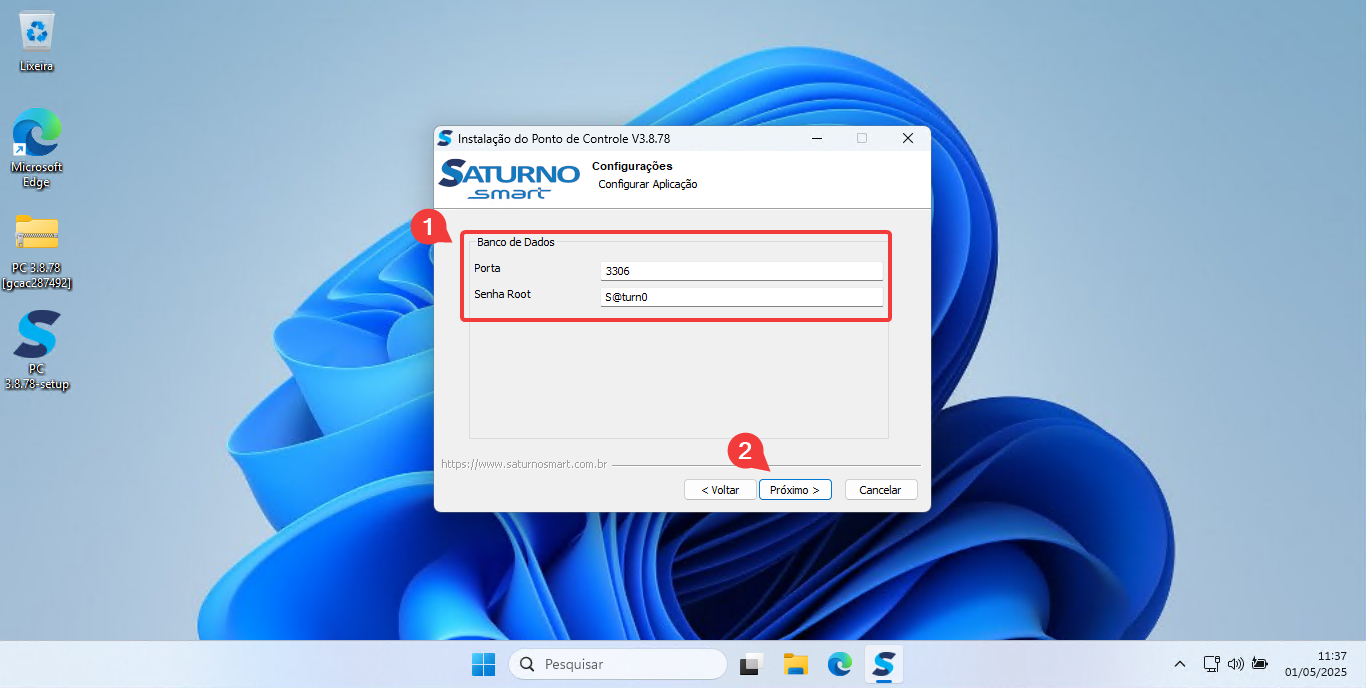
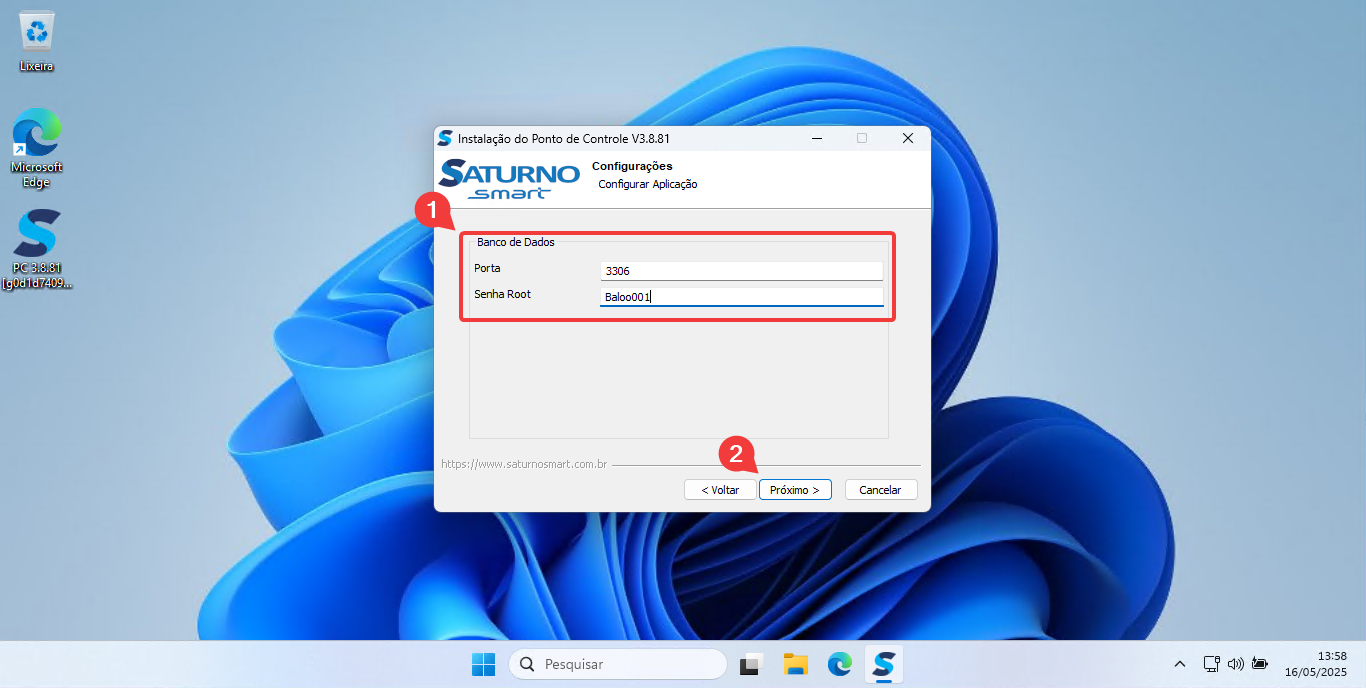
Manual instalação SLC e Geral finalizados

diff --git a/manualInstalaçãoGeral.md b/manualInstalaçãoGeral.md
@@ -1,6 +1,6 @@
 # 🛠 Manual de Instalação
 
-> Versão 2.0 | Atualizado em: 05/05/2025
+> Versão 2.0 | Atualizado em: 16/05/2025
 
 ---
 
@@ -18,7 +18,10 @@
 
 - [2.1 Instalação via Setup](#21-ivs)
 - [2.3 Instalação via terminal](#22-ivt)
-- [2.3 Setup Wizard](#23-sw)
+
+### ⚙ [CAPÍTULO 3: CONFIGURAÇÕES EXTRAS](#cap3)
+
+- [3.1 Configuração Setup Wizard](#31-sw)
 
 ---
 
@@ -66,15 +69,13 @@ Bancos de Dados Homologados:
 
 ## 📌 1.2 Arquivos Necessários {#12-an}
 
-Os arquivos necessários para a instalação do software estarão disponíveis no seguinte caminho:
+Os arquivos necessários para a instalação do software estão disponíveis no seguinte caminho:
 
-- **Servidor:** `\\192.168.100.100\p_d\21-SOFTWARE\10 - QA\PontoDeControle`
+- **SharePoint:** `https://ibstecn.sharepoint.com/sites/software/Downloads/Forms/AllItems.aspx`
 
-Essa pasta contém:
-
-- Os arquivos de instalação do SSV4
-- O instalador do Ponto de Controle
-- O pacote do Ponto de Controle compactado
+    - **Ponto de Controle:** `Downloads/01. Saturno Smart V5 [Ponto de Controle]`
+    - **Saturno Loge:** `Downloads/03. Loge Dashboard`
+    - **MySql:** `Ferramentas/mysql-installer-community-8.0.40.0.msi`
 
 ---
 
@@ -82,64 +83,213 @@ Essa pasta contém:
 
 ## 📌 2.1 Instalação via Setup {#21-ivs}
 
-Para realizar a instalação do Ponto de Controle via instalador, execute o arquivo .exe que se encontra na pasta referenciada no [tópico 1.2](#12-an).
+Para realizar a instalação do Ponto de Controle por meio do instalador, execute o arquivo `.exe` localizado na pasta referenciada no [tópico 1.2](#12-an).
 ![img](./imagens/imgInstGer/intSetup.png)
 
-Clique em "Próximo" na janela que for exibida.
+Na janela exibida, clique em "Próximo".
 ![img](./imagens/imgInstGer/bem_vindo.png)
 
-Leia termos e condições, clique em "Eu Concordo".
+Leia os termos e condições, e clique em "Eu Concordo" para prosseguir.
 ![img](./imagens/imgInstGer/eu_concordo.png)
 
-Defina o local de instalação do software e clique em "Próximo". Se desejar alterar o local, clique em "Procurar" e selecione o novo diretório.
+Em seguida, defina o local de instalação do software e clique em "Próximo". Caso deseje alterar o diretório padrão, clique em "Procurar" e selecione o novo local.
 ![img](./imagens/imgInstGer/caminho.png)
 
-Nesta tela, você pode escolher se deseja criar um atalho na área de trabalho e se deseja que o instalador também instale o MySQL. Marque as opções desejadas e clique em "Próximo".
+Nesta etapa, você pode escolher se deseja:
+
+- Criar um atalho na área de trabalho.
+- Instalar o MySQL junto com o software.
+
+Marque as opções desejadas e clique em "Próximo".
 ![img](./imagens/imgInstGer/mysql_icondesktop.png)
 
-Caso tenha selecionado a instalação do MySQL, defina a porta e a senha do banco de dados, e clique em "Próximo".
+Se tiver selecionado a instalação do MySQL, será necessário definir a porta e a senha do banco de dados. Após preencher os campos, clique em "Próximo".
 ![img](./imagens/imgInstGer/def_banco.png)
 
-Nesta etapa, defina a porta de acesso ao software e o nome do serviço que será criado ao final da instalação. Clique em "Instalar".
+Agora, configure a porta de acesso ao software e o nome do serviço que será criado ao final da instalação. Clique em "Instalar" para iniciar o processo.
 ![img](./imagens/imgInstGer/servidor.png)
 
-Deixe a opção "Iniciar automaticamente com o sistema" marcada para que o serviço seja instalado e, por fim, clique em "Concluir". Depois, siga os passos descritos no [tópico 2.3](#23-sw).
+Mantenha a opção "Iniciar automaticamente com o sistema" marcada para que o serviço seja iniciado junto com o Windows. Por fim, clique em "Concluir".
+Após finalizar a instalação, siga os passos descritos no [tópico 3.1](#31-sw).
 ![img](./imagens/imgInstGer/servico.png)
 
 ## 📌 2.2 Instalação via terminal {#22-ivt}
 
-Para instalar o Ponto de Controle via terminal, descompacte o arquivo .zip disponível na pasta indicada no [tópico 1.2](#12-an).
-**OBS.:** Antes de prosseguir com a instalação, certifique-se de já ter instalado o MySQL.
-![img](./imagens/imgInstGer/intZip.png)
+**OBS.:** Antes de prosseguir com a instalação via terminal, certifique-se de que o MySQL já esteja instalado (Caso ainda não tenha feito isso, siga os passos descritos no [tópico 2.3](#23-im)).
 
-Após descompactar, execute o arquivo `smart-control-point`.
+Faça o download do arquivo `.zip` localizado na pasta mencionada no [tópico 1.2](#12-an). Em seguida:
+
+1. Descompacte o arquivo.
+2. Crie uma pasta no diretório `C:\` com o nome **"SMART"**.
+3. Mova o conteúdo extraído para essa nova pasta.
+
+![img](./imagens/imgInstSlc/pdc_1.png)
+
+Dentro da pasta `PCV3`, execute o arquivo `smart-control-point`.
 ![img](./imagens/imgInstGer/smart_control_point.png)
 
-O servidor será iniciado. Em seguida, abra uma página no navegador e acesse o endereço 127.0.0.1:4000. Depois, siga os passos descritos no [tópico 2.3](#23-sw).
+O servidor será iniciado. Em seguida, abra uma página no navegador e acesse o endereço `127.0.0.1:4000`. Depois, siga os passos descritos no [tópico 3.1](#31-sw).
 ![img](./imagens/imgInstGer/terminal_up.png)
 
-## 📌 2.3 Setup Wizard {#23-sw}
+## 📌 2.3 Instalação MySql {#23-im}
 
-Após a instalação, será aberta uma guia no navegador com o Setup Wizard.
+Faça o download do arquivo `mysql-installer-community-8.0.40.0.msi`, mencionado no [tópicpo 1.2](#12-an). Execute o arquivo `.msi`.
+![img](./imagens/imgInstSlc/mysql_1.png)
 
-Na primeira seção, defina:
+No menu "Choosing a Setup Type", selecione a opção "Custom" e clique em "Next".
+![img](./imagens/imgInstSlc/mysql_2.png)
+
+No menu "Select Products", expanda as opções de "MySQL Server" e "Applications", transfira os pacotes MySQL Server 8.0.42 e MySQL Workbench 8.0.42, e clique em "Next".
+![img](./imagens/imgInstSlc/mysql_3.png)
+
+No menu "Check Requirements", clique em "Execute", instale todos os pacotes do Visual C++ exigidos e, ao final, clique em "Next".
+![img](./imagens/imgInstSlc/mysql_4.png)
+
+No menu "Installation", clique em "Execute" e, após a finalização, clique em "Next".
+![img](./imagens/imgInstSlc/mysql_5.png)
+
+No menu "Product Configuration", clique em "Next".
+![img](./imagens/imgInstSlc/mysql_6.png)
+
+No menu "Type and Networking", altere o campo "Config Type" para "Server Computer" e clique em "Next".
+![img](./imagens/imgInstSlc/mysql_7.png)
+
+No menu "Authentication Method", defina o método de autenticação que será utilizado:
+
+| Método de Autenticação | Nome Técnico | Segurança | Compatibilidade | Observações |
+|------------------------|------------------------|------------------|---------------------------|------------------------------------------------------------------------------|
+| Legacy Authentication Method | `mysql_native_password`| Baixa a moderada | SSV4 (clientes antigos)   | Compatível com clientes mais antigos (MySQL < 8.0). O Ponto de Controle também aceita esse método. |
+| Strong Password Encryption for Authentication | `caching_sha2_password`| Alta | Ponto de Controle | Padrão a partir do MySQL 8.0. Mais seguro, evita tráfego de senha em texto claro. |
+
+![img](./imagens/imgInstSlc/mysql_8.png)
+
+No menu "Accounts and Roles", defina a senha do usuário root. Por padrão, a Saturno utiliza a senha `Baloo001`.
+Adicione dois usuários chamados **smart** — um com escopo **global** e outro com escopo **local**. Para isso, clique em "Add User"..
+![img](./imagens/imgInstSlc/mysql_9.png)
+
+Após clicar em "Add User", será exibido um formulário. Preencha da seguinte forma:
+
+- User Name: `smart`
+- Host: `%` (para usuário global) ou `localhost` (para usuário local)
+- Password: utilize a mesma senha do root (`Baloo001`)
+Clique em "OK".
+![img](./imagens/imgInstSlc/mysql_10.png)
+
+Após adicionar os dois usuários extras, clique em "Next".
+![img](./imagens/imgInstSlc/mysql_11.png)
+
+No menu "Windows Service", clique em "Next".
+![img](./imagens/imgInstSlc/mysql_12.png)
+
+No menu "Server File Permissions", clique em "Next".
+![img](./imagens/imgInstSlc/mysql_13.png)
+
+No menu "Apply Configuration", clique em "Execute" e, ao concluir, clique em "Finish".
+![img](./imagens/imgInstSlc/mysql_14.png)
+
+## 📌 2.4 Instalação Loge {#24-il}
+
+Faça o download do arquivo `saturno-loge-2.0.5-setup.exe`, mencionado no [tópicpo 1.2](#12-an), e execute o arquivo `.exe`.
+![img](./imagens/imgInstSlc/log_1.png)
+
+Clique em "Próximo".
+![img](./imagens/imgInstSlc/log_2.png)
+
+Clique em "Eu Concordo" para aceitar os termos de licença.
+![img](./imagens/imgInstSlc/log_3.png)
+
+Na etapa de escolha do diretório de instalação:
+
+- Se você optou pela instalação via terminal, selecione a pasta **SMART**, criada no [tópico 2.2](#22-ivt).
+- Se você optou pela instalação via setup, selecione a pasta **Saturno**, criada no [tópico 2.1](#21-ivs).
+
+Para isso, clique em "Procurar...", navegue até a pasta desejada e, em seguida, clique em "Próximo".
+![img](./imagens/imgInstSlc/log_4.png)
+
+No menu de configurações de conexão, preencha os campos da seguinte forma:
+
+- **Empresa:** mantenha "Saturno Smart" (valor padrão), ou altere conforme necessidade do cliente.
+- **URL DB Ponto de Controle:**
+
+    Altere os parâmetros da URL conforme abaixo:
+
+    - `username`: `root`
+    - `password`: `Baloo001`
+    - `db_name`: `pc_v3`
+    (Caso tenha utilizado credenciais ou nome de banco diferentes, substitua pelos corretos.)
+- **URL Ponto de Controle:** `http://localhost:4000`
+- **Porta:** por padrão, a porta é 5000. No entanto, alguns clientes utilizam essa porta para o integrador. Nesses casos, altere para 5001:
+    - Se o integrador estiver utilizando a porta 5000, defina 5001 aqui.
+    - Se o integrador estiver em 5001, mantenha 5000 para o Loge.
+
+    Após preencher todos os campos, clique em "Instalar".
+
+![img](./imagens/imgInstSlc/log_5.png)
+
+Ao final da instalação, mantenha o checkbox selecionado para que o Loge seja instalado como **serviço do Windows** e clique em "Concluir".
+![img](./imagens/imgInstSlc/log_6.png)
+
+---
+
+# ⚙ CAPÍTULO 3: CONFIGURAÇÕES EXTRAS {#cap3}
+
+## 📌 3.1 Configuração Setup Wizard {#31-sw}
+
+Após a instalação, será aberta automaticamente uma guia no navegador com o Setup Wizard (Caso a guia não seja aberta, abra o navegador e acesse o endereço `http://localhost:4000`).
+
+Na primeira seção, preencha as informações relacionadas ao banco de dados:
 
 - O banco de dados a ser utilizado
-- O IP e porta do banco (Devem ser o mesmo utilizado no momento da instalação do banco)
-- O nome do banco
-- O usuário e senha
-![img](./imagens/imgInstGer/wizard_banco.png)
+- IP e porta do banco (devem ser os mesmos definidos durante a instalação do MySQL)
+- Nome do banco: por padrão, o sistema sugere pc_v3, mas o usuário pode definir outro nome, se desejar.
+    - Ao alterar o nome do banco, lembre-se de atualizar também essa informação no arquivo de configuração do Loge.
+- Usuário e senha do banco: utilize as credenciais do usuário smart, criado no [tópicpo 2.3](#23-im).
 
-Depois de inicializar o banco, você poderá definir um usuário administrador, preenchendo os campos com usuário e senha, ou poderá optar por pular essa etapa e criar esse usuário mais tarde.
+![img](./imagens/imgInstGer/setup_wi.png)
+
+Após a inicialização do banco, será possível:
+
+- Criar um usuário administrador, preenchendo os campos com nome de usuário e senha;
+- Ou pular essa etapa, se preferir criar o usuário posteriormente.
+
 ![img](./imagens/imgInstGer/wizard_user.png)
 
-Na etapa seguinte, escolha um dos modelos de configuração inicial para o sistema e clique em "Avançar":
+Na etapa seguinte, selecione um dos modelos de configuração inicial do sistema e clique em "Avançar":
 
-- **Modelo 1 – Pesagem Simples:** Cria duas rotas (tara e bruto; carregamento) e um ponto de balança já configurado.
-- **Modelo 2 – Rotas Padrões:** Cria todas as funcionalidades de cada rota, com balança e portaria configuradas.
-- **Modelo em Branco:** Nenhuma rota ou ponto de controle é criado. Ideal para customizações.
+- **Modelo 1 – Pesagem Simples:** Cria duas rotas (tara e bruto e carregamento) e um ponto de balança já configurado.
+- **Modelo 2 – Rotas Padrões:** Cria todas as funcionalidades de cada rota, com balança e portaria pré-configuradas.
+- **Modelo em Branco:** Nenhuma rota ou ponto de controle é criado. Ideal para configurações personalizadas.
 - **Importar Arquivo:** Permite importar um template de outra unidade, útil para replicar estruturas.
 **Obs.:** O template traz rotas e configurações de ponto de controle, mas não inclui dados de cadastros ou acessos.
+
 ![img](./imagens/imgInstGer/wizard_modelo.png)
+
+## 📌 3.2 Configuração de Serviços do Windows {#33-csw}
+
+Caso o Ponto de Controle tenha sido instalado na opção terminal, é necessário realizar a instalação manual do serviço do Windows. Para isso, utilize o arquivo `.bat` fornecido no pacote de instalação.
+
+Siga os passos abaixo:
+
+- Acesse a pasta PCV3 e localize o arquivo `install-service.bat`.
+- Clique com o botão direito sobre o arquivo e selecione "Executar como administrador".
+- Aguarde a execução e, após aparecer a mensagem "Aperte qualquer tecla para continuar", pressione qualquer tecla e feche o terminal.
+
+![img](./imagens/imgInstSlc/services_1.png)
+
+## 📌 3.3 Configuração Loge {#34-cl}
+
+Para criar um atalho para o Loge dentro do Ponto de Controle, é necessário configurar a URL base onde o Loge está instalado.
+
+Acesse o Ponto de Controle e navegue até o menu:
+"Administração > Configuração > Atalhos".
+![img](./imagens/imgInstSlc/log_7.png)
+
+No campo "Endereço do Loge Dashboard", insira a URL base do Loge, incluindo o prefixo `http://`.
+Em seguida, clique em "Salvar".
+**OBS.: Atente-se para a porta que foi definida no [tópico 2.4](24-il)**
+![img](./imagens/imgInstSlc/log_8.png)
+
+Após salvar, um atalho para o Dashboard do Loge será exibido na tela inicial do Ponto de Controle.
+![img](./imagens/imgInstSlc/log_9.png)
 
 ---

diff --git a/manualInstalacaoSLC.md b/manualInstalacaoSLC.md
@@ -1,6 +1,6 @@
 # 🛠 Manual de Instalação SLC
 
-> Versão 2.0 | Atualizado em: 13/05/2025
+> Versão 3.0 | Atualizado em: 16/05/2025
 
 ---
 
@@ -26,6 +26,7 @@
 - [3.1 Configuração Banco "gatec_smart"](#31-cbgs)
 - [3.2 Configuração chave API](#32-cca)
 - [3.3 Configuração de Serviços do Windows](#33-csw)
+- [3.4 Configuração Loge](#34-cl)
 
 ---
 
@@ -222,14 +223,14 @@ No menu de configurações de conexão, preencha os campos da seguinte forma:
 
     Altere os parâmetros da URL conforme abaixo:
 
-    - `username`: `smart`
+    - `username`: `root`
     - `password`: `Baloo001`
     - `db_name`: `pc_v3`
     (Caso tenha utilizado credenciais ou nome de banco diferentes, substitua pelos corretos.)
 - **URL Ponto de Controle:** `http://localhost:4000`
 - **Porta:** Por padrão, a porta é 5000. No entanto, para evitar conflito com o integrador GATEC:
     - Se o integrador estiver utilizando a porta 5000, defina 5001 aqui.
-    - Se o integrador estiver em 5001, mantenha 5000 para o Loge. 
+    - Se o integrador estiver em 5001, mantenha 5000 para o Loge.
 Clique em "Instalar" para prosseguir.
 
 ![img](./imagens/imgInstSlc/log_5.png)
@@ -297,5 +298,20 @@ Siga os passos abaixo:
 - Novamente, clique com o botão direito e selecione "Executar como administrador".
 
 ![img](./imagens/imgInstSlc/services_1.png)
+
+## 📌 3.4 Configuração Loge {#34-cl}
+
+Para criar um atalho para o Loge dentro do Ponto de Controle, é necessário configurar a URL base onde o Loge está instalado.
+
+Acesse o Ponto de Controle e navegue até o menu:
+"Administração > Configuração > Atalhos".
+![img](./imagens/imgInstSlc/log_7.png)
+
+No campo "Endereço do Loge Dashboard", insira a URL base do Loge, incluindo o prefixo http://.
+Em seguida, clique em "Salvar".
+![img](./imagens/imgInstSlc/log_8.png)
+
+Após salvar, um atalho para o Dashboard do Loge será exibido na tela inicial do Ponto de Controle.
+![img](./imagens/imgInstSlc/log_9.png)
 
 ---
